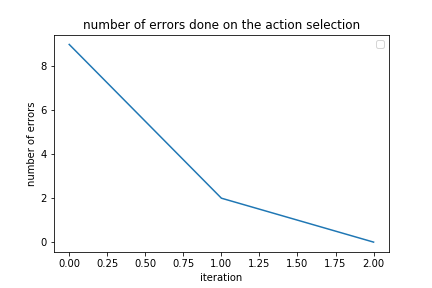
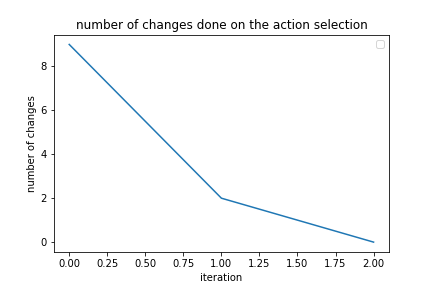
modifying the image

Changed region(s): [[0.1806, 0.0625, 0.8426, 0.125], [0.0602, 0.3438, 0.0903, 0.6875]]

diff --git a/DynamicProgramming/PolicyIteration/PolicyIteration.py b/DynamicProgramming/PolicyIteration/PolicyIteration.py
@@ -153,8 +153,8 @@ pl.show()
 fig=pl.figure()
 pl.plot(errors)
 pl.xlabel('iteration')
-pl.ylabel('number of errors')
-pl.title('number of errors done on the action selection')
+pl.ylabel('number of changes')
+pl.title('number of changes done on the action selection')
 pl.legend()
 fig.savefig('errorPolicyIteration.png')
 
